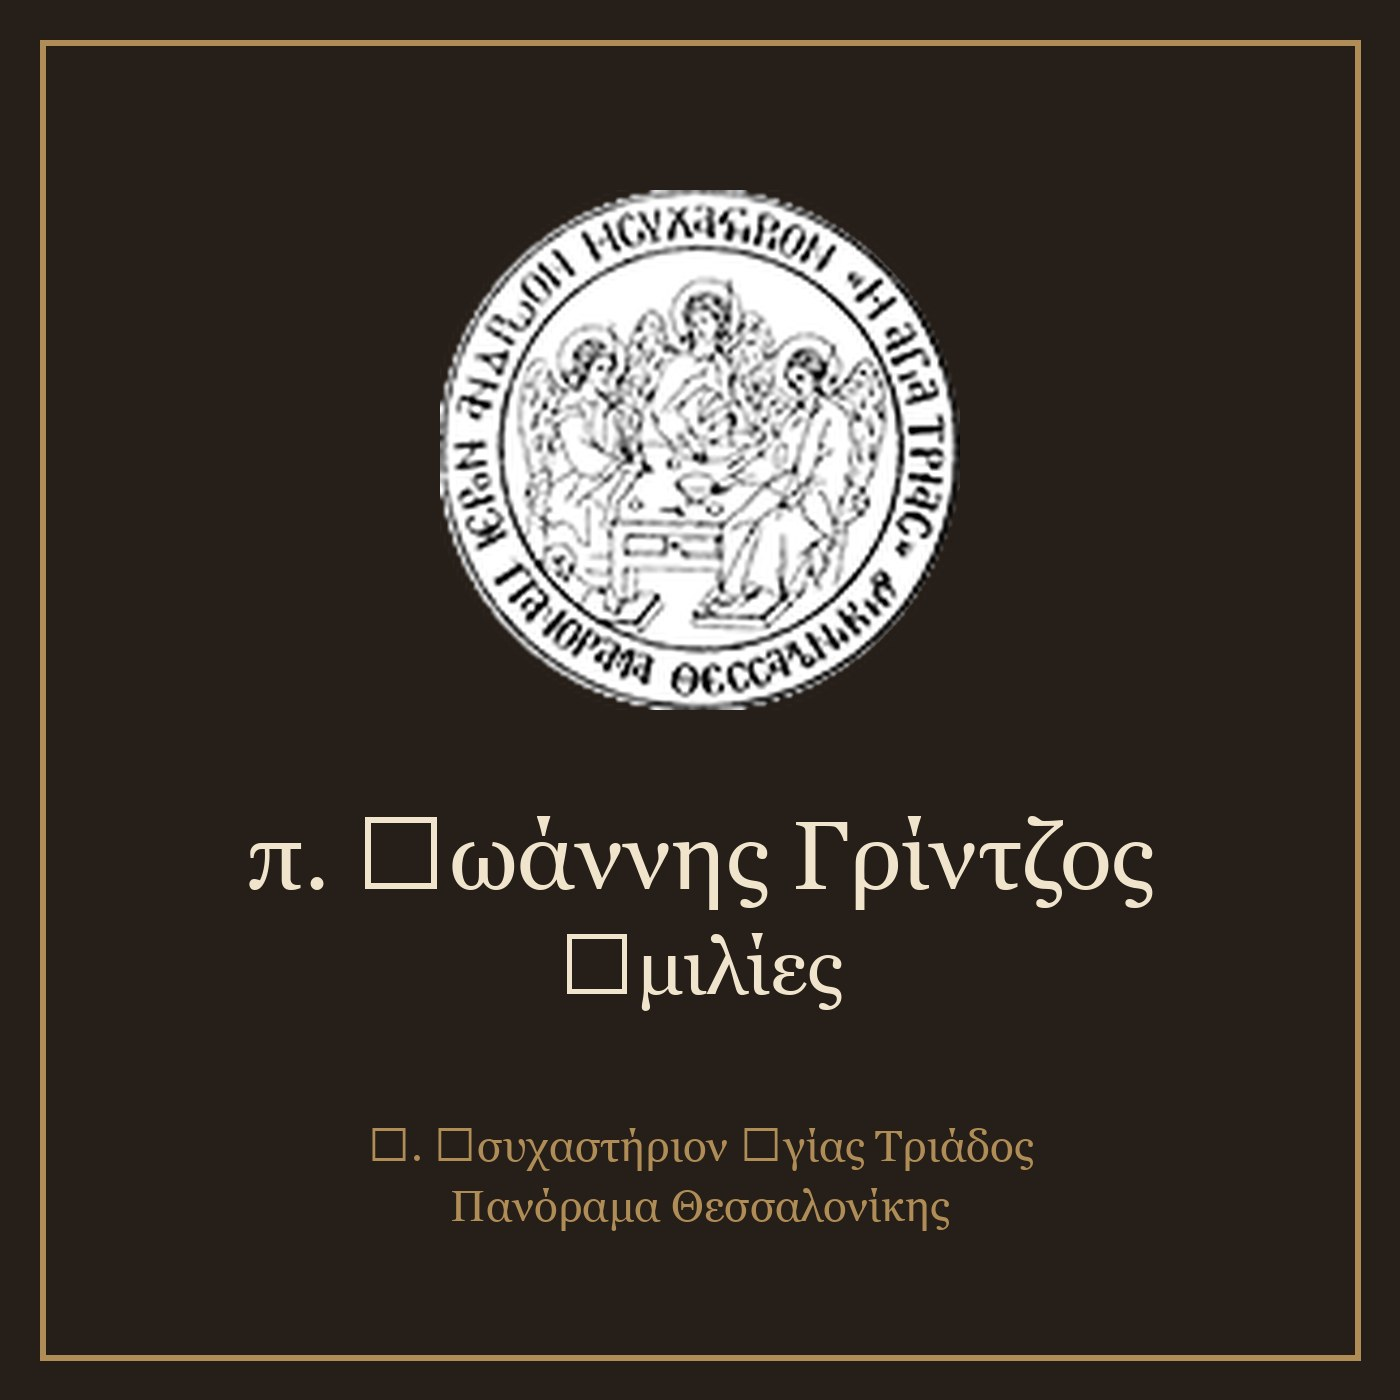
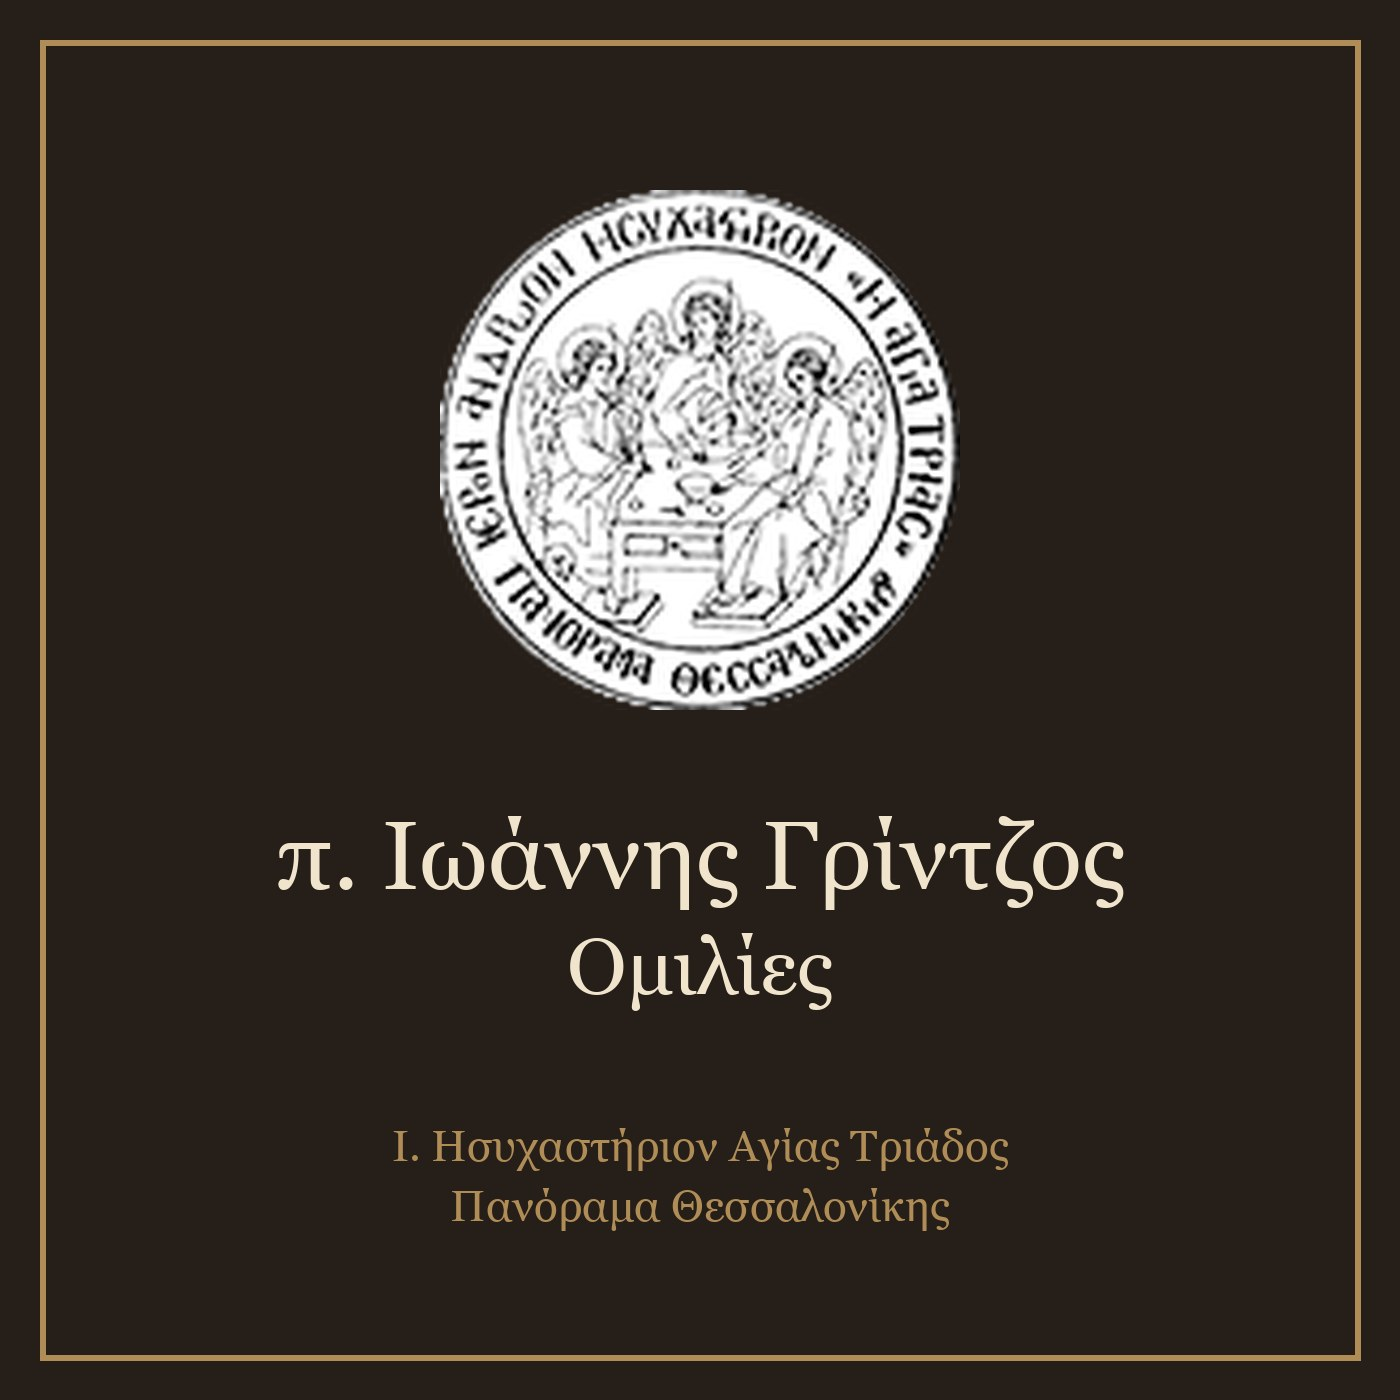
Monotonic cover and channel title (polytonic glyphs missing in font)
Claude-Session: https://claude.ai/code/session_01MNKeRtckEmPDK6JF6vxSgp

Changed region(s): [[0.1843, 0.5836, 0.8293, 0.7371], [0.2457, 0.7986, 0.7371, 0.86]]

diff --git a/build_feed.py b/build_feed.py
@@ -137,12 +137,12 @@ def main():
         '<?xml version="1.0" encoding="UTF-8"?>',
         '<rss version="2.0" xmlns:itunes="http://www.itunes.com/dtds/podcast-1.0.dtd" xmlns:atom="http://www.w3.org/2005/Atom">',
         "<channel>",
-        "<title>π. Ἰωάννης Γρίντζος — Ὁμιλίες</title>",
+        "<title>π. Ιωάννης Γρίντζος — Ομιλίες</title>",
         f"<link>{BASE}/audio/</link>",
         f'<atom:link href="{FEED_URL}" rel="self" type="application/rss+xml"/>',
         "<language>el</language>",
-        "<description>Ὁμιλίες τοῦ π. Ἰωάννου Γρίντζου, ὅπως ἀναρτῶνται στὴν ἱστοσελίδα τοῦ Ἱεροῦ Ἡσυχαστηρίου Ἁγίας Τριάδος Πανοράματος Θεσσαλονίκης. Ἀνεπίσημο feed· τὰ ἀρχεῖα παίζουν ἀπευθείας ἀπὸ τὴν ἱστοσελίδα.</description>",
-        "<itunes:author>π. Ἰωάννης Γρίντζος</itunes:author>",
+        "<description>Ομιλίες του π. Ιωάννου Γρίντζου, όπως αναρτώνται στην ιστοσελίδα του Ιερού Ησυχαστηρίου Αγίας Τριάδος Πανοράματος Θεσσαλονίκης. Ανεπίσημο feed· τα αρχεία παίζουν απευθείας από την ιστοσελίδα.</description>",
+        "<itunes:author>π. Ιωάννης Γρίντζος</itunes:author>",
         f'<itunes:image href="{COVER_URL}"/>',
         '<itunes:category text="Religion &amp; Spirituality"><itunes:category text="Christianity"/></itunes:category>',
         "<itunes:explicit>false</itunes:explicit>",
